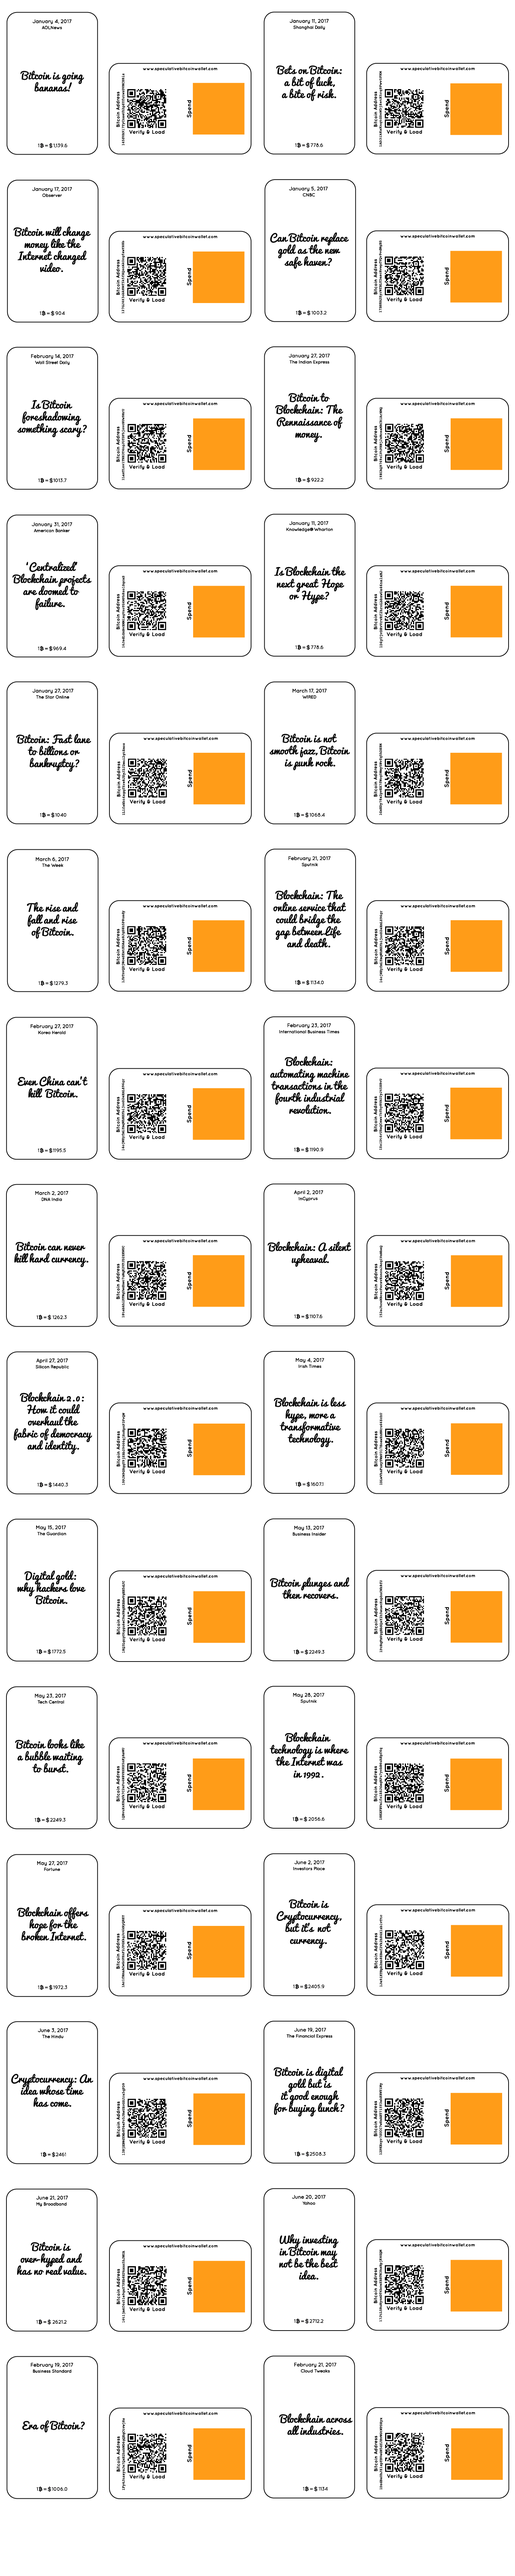
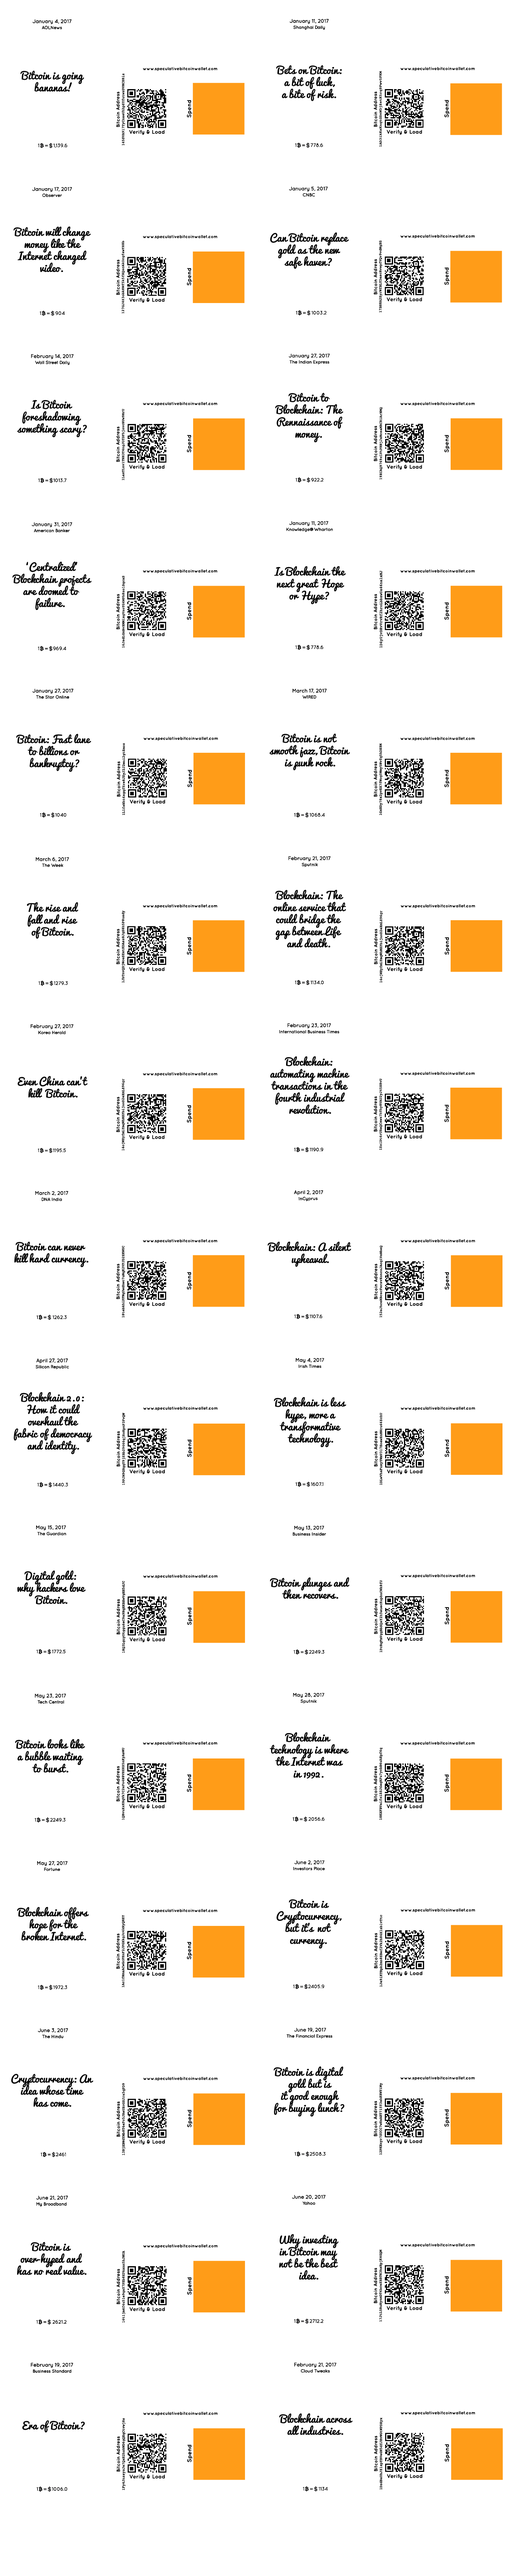
Implemented sprites without unnecessary borders & subtle animations for the wallets

diff --git a/wallets/wallet_style.css b/wallets/wallet_style.css
@@ -21,7 +21,7 @@
     grid-template-columns: repeat(4, auto);
     grid-template-rows: auto auto;
 
-    grid-gap: 10px;
+    grid-gap: 20px;
 
     justify-content: center;
     align-items: flex-end;
@@ -49,7 +49,19 @@
     background-repeat: no-repeat;
 
     border-radius: 30px;
+    box-shadow: 0px 0px 15px 0px #e8e8e8;
+
+    -webkit-transition: all 1s cubic-bezier(0.165, 0.84, 0.44, 1);
+    transition: all 1s cubic-bezier(0.165, 0.84, 0.44, 1);
 }
+.wallet-main > span::after {
+  -webkit-transition: all 1s cubic-bezier(0.165, 0.84, 0.44, 1);
+  transition: all 1s cubic-bezier(0.165, 0.84, 0.44, 1);
+}
+.wallet-main > span:hover {
+  transform: scale(1.05);
+}
+
 .wallet-main > span:nth-child(even) {
     height: 398px;
     width: 254px;
